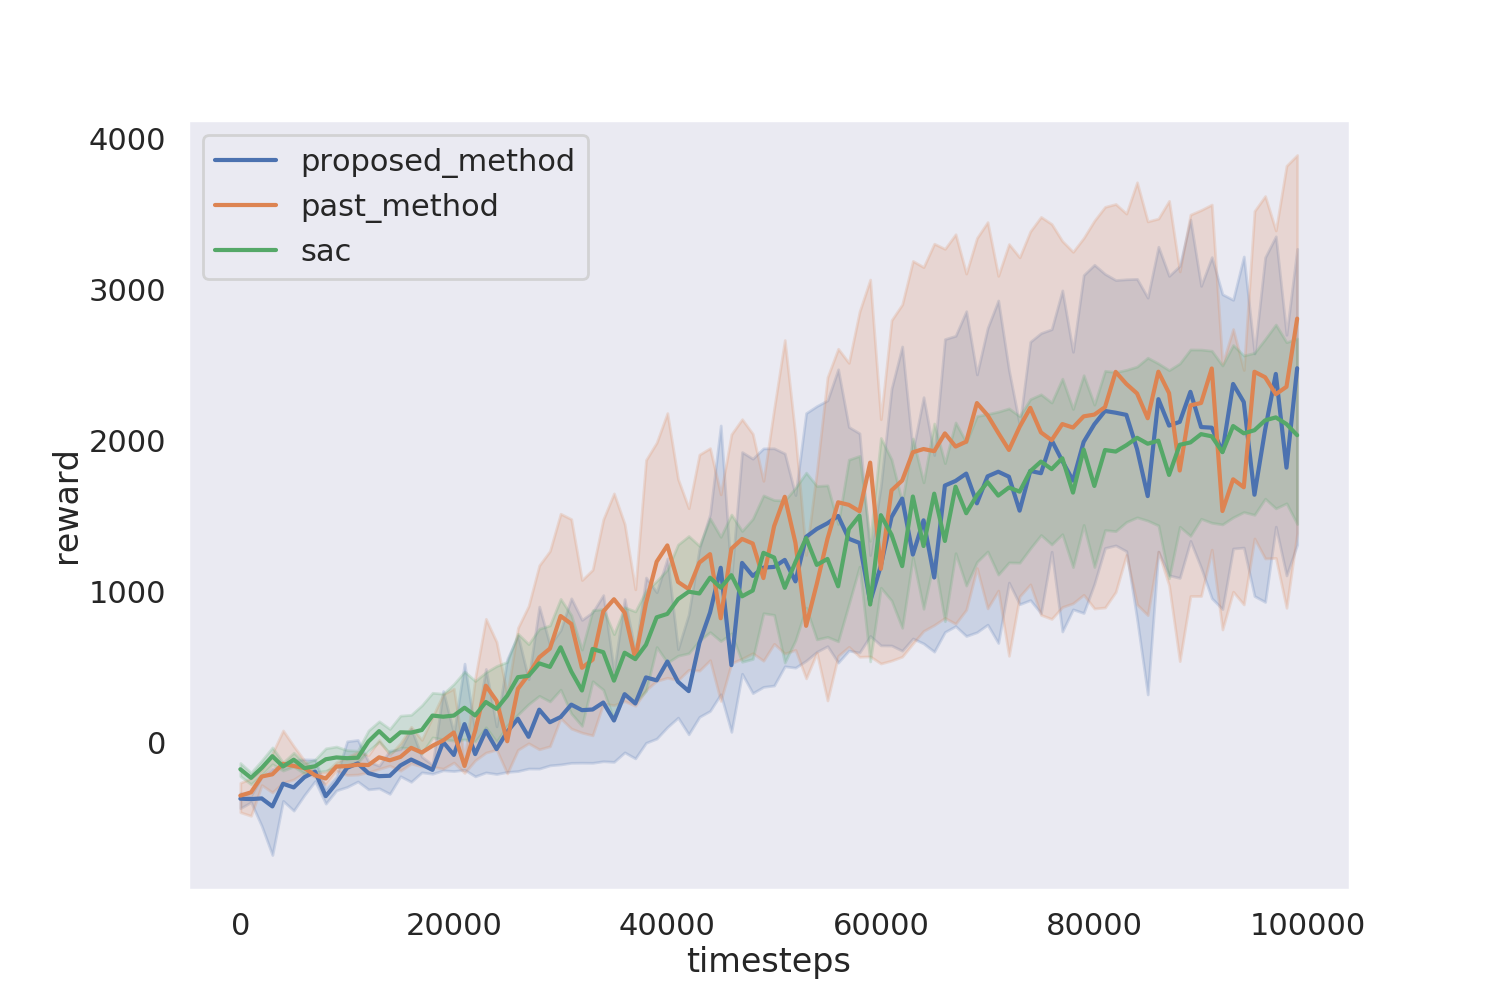
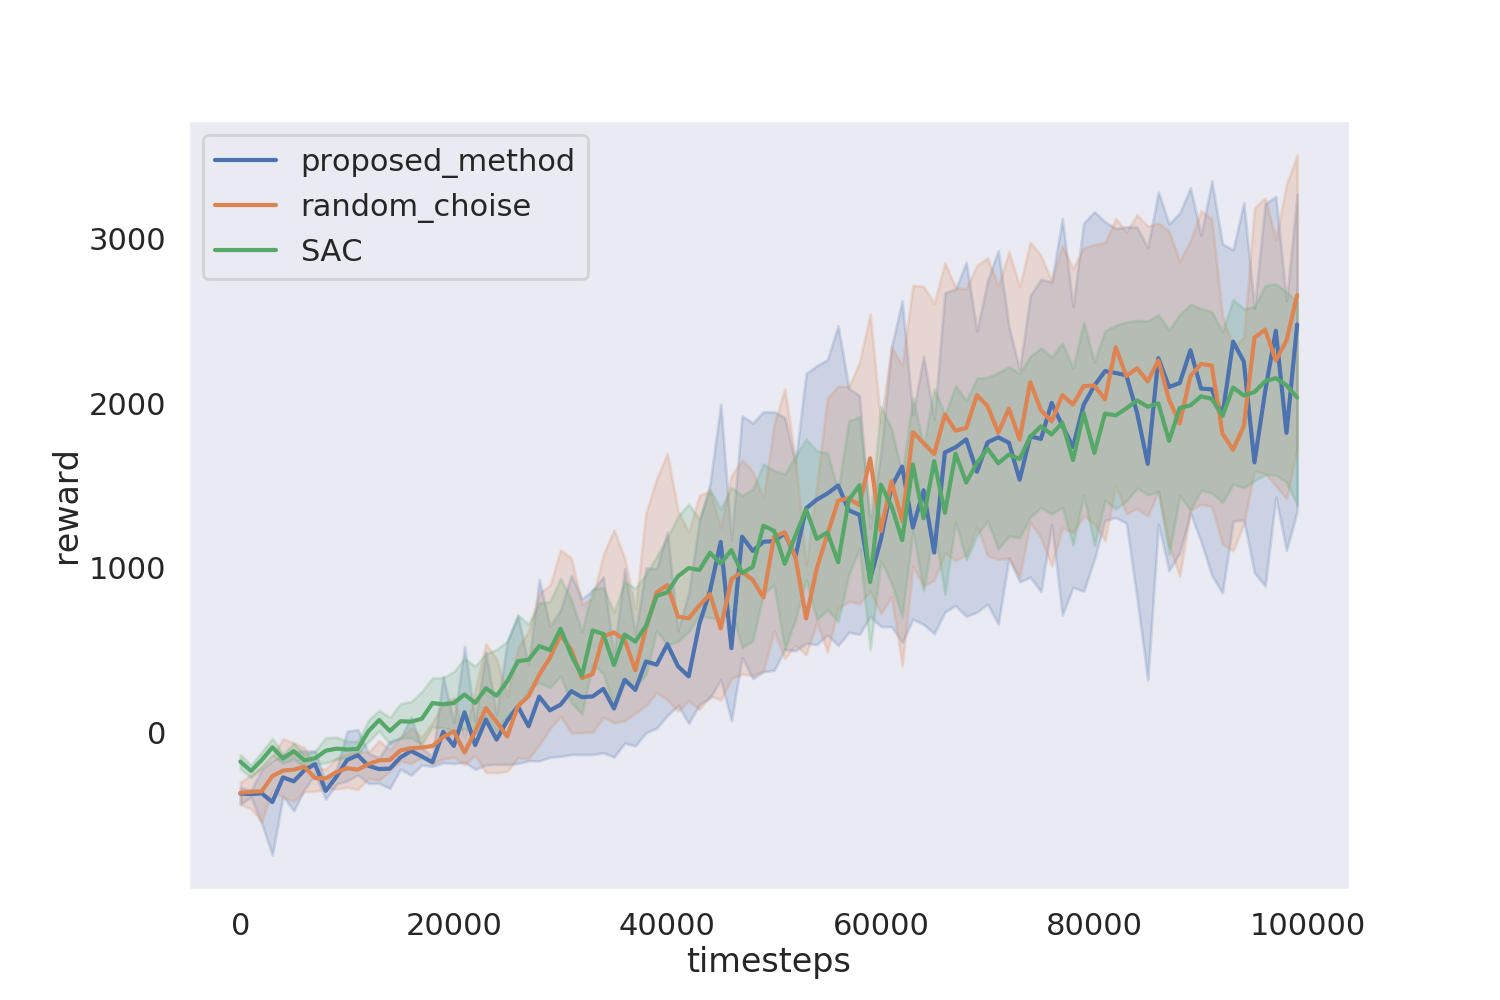
add

diff --git a/mpc_contorller.py b/mpc_contorller.py
@@ -193,7 +193,8 @@ class MPCController:
                 (self.N, self.env.observation_space.shape[0])).float().to(self.device)
             state_vars = torch.zeros(
                 (self.N, self.env.observation_space.shape[0])).float().to(self.device)
-            model_id = self.choose_index_model(state_means_, state_vars_)
+            model_id = self.choose_index_model_klandrandom(
+                state_means_, state_vars_)
             # print(model_id.shape)
             for j in range(self.N):
                 for k in range(self.env.observation_space.shape[0]):
@@ -213,7 +214,7 @@ class MPCController:
                 (self.N)).float().to(self.device)
             reward_vars = torch.zeros(
                 (self.N)).float().to(self.device)
-            reward_model_id = self.choose_index_reward(
+            reward_model_id = self.choose_index_reward_klandrandom(
                 reward_means_, reward_vars_)
             # print(reward_model_id.shape)
             for j in range(self.N):
@@ -344,6 +345,103 @@ class MPCController:
             model_id[i, :] = torch.argmin(kl_result[i, :, :], axis=0)
 
         return model_id
+
+    def choose_index_model_klandrandom(self, next_means, next_vars, C=0.5):
+        '''next_means(torch array): (self.N, en_size,dim_state)'''
+        '''next_vars(torch array): (self.N, en_size,dim_state)'''
+
+        en_size = self.model.ensemble_size
+        next_sigmas = torch.rsqrt(next_vars)
+        space_dim = self.env.observation_space.shape[0]
+        # first calc mu
+        mu = torch.zeros((self.N, en_size, space_dim)).float().to(self.device)
+        sigma = torch.zeros((self.N, en_size, space_dim)
+                            ).float().to(self.device)
+
+        for i in range(en_size):
+            for j in range(en_size):
+                if i == j:
+                    continue
+                mu[:, i, :] += next_means[:, j, :]
+            mu[:, i, :] /= (en_size - 1)
+
+        # next calc sigma
+        for i in range(en_size):
+            for j in range(en_size):
+                if i == j:
+                    continue
+                sigma[:, i, :] += torch.pow(next_sigmas[:, j, :], 2) + \
+                    torch.pow(next_means[:, j, :], 2)
+            sigma[:, i, :] /= (en_size - 1)
+            sigma[:, i, :] -= torch.pow(mu[:, i, :], 2)
+
+        # calc kl div
+        kl_result = torch.zeros(
+            (self.N, en_size, space_dim)).float().to(self.device)
+
+        for i in range(en_size):
+
+            kl_result[:, i, :] = self.calc_kl(
+                next_means[:, i, :], next_sigmas[:, i, :], mu[:, i, :], sigma[:, i, :])
+
+        model_id = torch.zeros((self.N, space_dim)).long().to(self.device)
+
+        for i in range(self.N):
+            model_id[i, :] = torch.argmin(kl_result[i, :, :], axis=0)
+
+        for i in range(self.N):
+            for j in range(space_dim):
+                if kl_result[i, model_id[i, j], j] >= C:
+                    print(torch.randint(0, en_size, (1,)))
+                    model_id[i, j] = torch.randint(en_size)
+
+        return model_id
+
+    def choose_index_reward_klandrandom(self, next_means, next_vars, C=0.5):
+        '''next_means(torch array): (self.N, en_size,dim_state)'''
+        '''next_vars(torch array): (self.N, en_size,dim_state)'''
+        en_size = self.model.ensemble_size
+        next_sigmas = torch.rsqrt(next_vars)
+        space_dim = 1
+        # first calc mu
+        mu = torch.zeros((self.N, en_size, space_dim)).float().to(self.device)
+        sigma = torch.zeros((self.N, en_size, space_dim)
+                            ).float().to(self.device)
+
+        for i in range(en_size):
+            for j in range(en_size):
+                if i == j:
+                    continue
+                mu[:, i, :] += next_means[:, j, :]
+            mu[:, i, :] /= (en_size - 1)
+
+        # next calc sigma
+        for i in range(en_size):
+            for j in range(en_size):
+                if i == j:
+                    continue
+                sigma[:, i, :] += torch.pow(next_sigmas[:, j, :], 2) + \
+                    torch.pow(next_means[:, j, :], 2)
+            sigma[:, i, :] /= (en_size - 1)
+            sigma[:, i, :] -= torch.pow(mu[:, i, :], 2)
+
+        # calc kl div
+        kl_result = torch.zeros(
+            (self.N, en_size, space_dim)).float().to(self.device)
+
+        for i in range(en_size):
+            kl_result[:, i, :] = self.calc_kl(
+                next_means[:, i, :], next_sigmas[:, i, :], mu[:, i, :], sigma[:, i, :])
+        rewardmodel_id = torch.zeros(
+            (self.N, space_dim)).long().to(self.device)
+
+        for i in range(self.N):
+            if torch.min(kl_result[i, :, :], axis=0) >= C:
+                rewardmodel_id[i, :] = torch.randint(en_size)
+            else:
+                rewardmodel_id[i, :] = torch.argmin(kl_result[i, :, :], axis=0)
+
+        return rewardmodel_id
 
 
 if __name__ == '__main__':

diff --git a/visualize.py b/visualize.py
@@ -31,7 +31,7 @@ for i in range(100):
 
 
 dir_name = 'mpc-policy'
-data = [[0] * 100 for _ in range(4)]
+data = [[0] * 100 for _ in range(6)]
 i = 0
 for file in glob(dir_name + '/*.log'):
     # print(file)
@@ -50,11 +50,11 @@ for file in glob(dir_name + '/*.log'):
 # print(data)
 policy = []
 for i in range(100):
-    for j in range(4):
+    for j in range(6):
         policy.append(data[j][i])
 
 dir_name = 'sac-data'
-data = [[0] * 100 for _ in range(9)]
+data = [[0] * 100 for _ in range(17)]
 i = 0
 for file in glob(dir_name + '/*.log'):
     # print(file)
@@ -75,22 +75,23 @@ for file in glob(dir_name + '/*.log'):
 # print(data)
 sac = []
 for i in range(100):
-    for j in range(9):
+    for j in range(17):
         sac.append(data[j][i])
 
 
 sns.set(font='Yu Gothic')
 # plt.plot(x, np.array(reward_teian), label='proposedmethod')
 x = np.repeat(np.arange(0, 100000, 1000), 4)
-y = np.repeat(np.arange(0, 100000, 1000), 9)
+z = np.repeat(np.arange(0, 100000, 1000), 6)
+y = np.repeat(np.arange(0, 100000, 1000), 17)
 print(x.shape)
 print(np.array(policy_kl).shape)
 sns.set_context('poster')
 plt.figure(figsize=(15, 10))
 sns.lineplot(x, np.array(policy_kl), label='proposed_method')
 
-sns.lineplot(x, np.array(policy), label='past_method')
-sns.lineplot(y, np.array(sac), label='sac')
+sns.lineplot(z, np.array(policy), label='random_choise')
+sns.lineplot(y, np.array(sac), label='SAC')
 
 plt.legend(loc='upper left')
 # plt.legend()
@@ -99,5 +100,5 @@ plt.legend(loc='upper left')
 plt.xlabel('timesteps')
 plt.ylabel('reward')
 plt.grid()
-plt.savefig('test.png')
+# plt.savefig('test.png')
 plt.show()

diff --git a/main_sac.py b/main_sac.py
@@ -155,6 +155,9 @@ if __name__ == '__main__':
         print('error')
         exit()
     logging.info('mpc_function %s', function_name)
+    comment = args[7]
+    if comment is not None:
+        logging.info(comment)
     for nsteps in range(n_steps):
         #model, rewardmodel = fit_model(buffer, grad_steps)
         best_score = env.reward_range[0]
